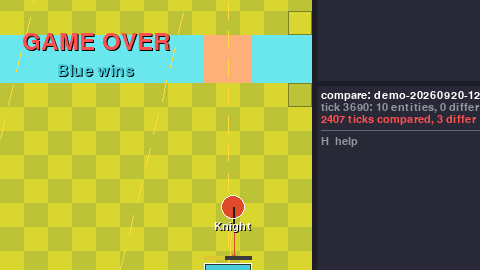
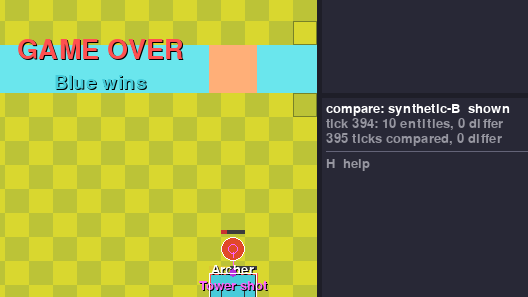
Two README tiles are made from the battle that ships with the tests
tile-compare.png and tile-paths-and-targets.png were hand-taken screenshots of
a real match. They were the only pictures here nobody else could reproduce, and
the compare tile printed a recording's name and its numbers on its own face,
while the media README two folders down said nothing here comes from a real
match. One of the two was wrong and it was the pictures.

docs/media/make_tiles.py crops them out of the real window drawn on
tests/fixtures, off-display, so the same tick gives the same bytes. The numbers
on the new compare tile are the scripted battle's: 395 ticks compared, 0 differ,
which is what two recordings of one battle should say. The captions in README.md
quote the old numbers and belong to another session, which has the new ones.

The media README now names, for every picture in the repo, which battle it was
drawn from: an engine trace, a running environment, or the scripted battle. The
rest of the screenshots stay hand-taken; what makes a picture publishable is
where its battle came from, not whether a script pressed the button.

docs/viewer-stream.png is removed: nothing in any of the five repos referenced
it, the same reason 21 placeholder SVGs went in fc1f778.

diff --git a/docs/media/make_tiles.py b/docs/media/make_tiles.py
@@ -1,0 +1,116 @@
+#!/usr/bin/env python3
+"""The README's `tile-*.png` crops, from the recordings that ship with the tests.
+
+    ..\\..\\..\\.venv\\Scripts\\python docs\\media\\make_tiles.py            # every tile
+    ..\\..\\..\\.venv\\Scripts\\python docs\\media\\make_tiles.py compare    # one of them
+
+Every tile here is a crop of the real window drawn on `tests/fixtures`, the scripted battle
+as the two seats would have recorded it. No screen and no clock are involved: the window is
+rendered off-display and the same source and tick give the same bytes, so a regenerated tile
+is a clean diff or no diff at all.
+
+That is the point of the file. These two tiles were hand-taken screenshots of a real match,
+which made them the only pictures in the repo that nobody else could reproduce and that no
+change to the viewer would ever update. A picture of a window is worth keeping only while it
+still shows what the window does.
+
+A tile is a CROP because the window is 1082 x 1029 and a README thumbnail of the whole thing
+shows nothing. The crops are named regions rather than magic numbers: see `TILES`.
+"""
+
+from __future__ import annotations
+
+import os
+import sys
+from pathlib import Path
+
+os.environ.setdefault("SDL_VIDEODRIVER", "dummy")
+os.environ.setdefault("SDL_AUDIODRIVER", "dummy")
+
+HERE = Path(__file__).resolve().parent
+REPO = HERE.parents[1]
+sys.path.insert(0, str(REPO))
+sys.path.insert(0, str(REPO / "tests"))
+
+import pygame  # noqa: E402
+
+from royaleviser.app import KEYS, App  # noqa: E402
+from royaleviser.render import ViewState  # noqa: E402
+from royaleviser.sources import CaptureSource  # noqa: E402
+
+SCALE = 24
+
+
+def fixtures() -> tuple[Path, Path]:
+    import synthetic  # the generator that also writes them; tests check the two agree
+
+    return synthetic.fixture_paths()
+
+
+def window(
+    main: Path, other: Path | None, tick: int, *, scrub: bool = False, **view_kw
+) -> pygame.Surface:
+    """The whole window, drawn on ``main`` (and ``other`` ghosted) at ``tick``.
+
+    ``scrub`` plays every frame up to ``tick`` first, which is what a person watching does and
+    the only way the compare totals are the battle's rather than one frame's.
+    """
+    pygame.init()
+    srcs = [CaptureSource(main)]
+    if other is not None:
+        srcs.append(CaptureSource(other))
+    app = App(srcs, ViewState(**view_kw), scale=SCALE)
+    app.renderer.help_lines = KEYS
+    end = srcs[0].index_at_tick(tick)
+    for i in range(end + 1) if scrub else (end,):
+        srcs[0].seek(i)
+        app.pull()
+    app.draw(0.0)
+    for s in srcs:
+        s.close()
+    return app.renderer.surface.copy()
+
+
+def crop(surface: pygame.Surface, rect: tuple[int, int, int, int], to: Path) -> None:
+    out = pygame.Surface((rect[2], rect[3]))
+    out.blit(surface, (0, 0), rect)
+    pygame.image.save(out, str(to))
+    print(f"{to.name}: {rect[2]}x{rect[3]} from {rect[:2]}")
+
+
+def compare() -> None:
+    """The compare panel at the end of the battle, with the two recordings' agreement on it.
+
+    Both fixtures are the same scripted battle recorded from the two seats, so the honest
+    number for them is zero: what the panel is showing is that it CAN say so tick by tick.
+    """
+    a, b = fixtures()
+    import synthetic
+
+    surf = window(a, b, synthetic.LAST_TICK, scrub=True)
+    crop(surf, (460, 320, 528, 297), HERE / "tile-compare.png")
+
+
+def paths_and_targets() -> None:
+    """Units with the route they walk and the thing they attack, both drawn."""
+    a, _ = fixtures()
+    surf = window(a, None, 162, show_paths=True, show_targets=True)
+    crop(surf, (345, 225, 432, 243), HERE / "tile-paths-and-targets.png")
+
+
+TILES = {"compare": compare, "paths-and-targets": paths_and_targets}
+
+
+def main(argv: list[str]) -> int:
+    names = argv or list(TILES)
+    unknown = [n for n in names if n not in TILES]
+    if unknown:
+        print(f"unknown tile(s): {', '.join(unknown)}; have {', '.join(TILES)}", file=sys.stderr)
+        return 2
+    for name in names:
+        TILES[name]()
+    return 0
+
+
+if __name__ == "__main__":
+    sys.exit(main(sys.argv[1:]))

diff --git a/docs/media/README.md b/docs/media/README.md
@@ -1,7 +1,7 @@
 # README media
 
 Every file the README embeds. Most of it is generated by a script and needs no screen, which
-is the part worth knowing. The exceptions are in the table: the `tile-*.png` screenshots and
+is the part worth knowing. The exceptions are in the table: four `tile-*.png` screenshots and
 the hand-drawn `family.svg` are final and are not regenerated here.
 
 The generator is [`../../../RoyaleGym/docs/media/make_media.py`](../../../RoyaleGym/docs/media/make_media.py).
@@ -10,6 +10,13 @@ From the folder that holds them:
 
 ```
 .venv\Scripts\python RoyaleGym\docs\media\make_media.py engine-trace compare-ghost
+```
+
+The `tile-compare` and `tile-paths-and-targets` crops have a generator of their own here,
+because they are crops of this viewer's window on the recordings that ship with the tests:
+
+```
+.venv\Scripts\python RoyaleViser\docs\media\make_tiles.py
 ```
 
 Underneath it is this repo's own `capture()`, which writes the window to a png, mp4 or gif
@@ -22,7 +29,11 @@ so regenerating is a clean diff. See `docs/internals.md` for the function.
 | `compare-ghost.gif` / `.mp4` | `make_media.py compare-ghost` | The two recordings of the scripted battle, the second drawn on the first as hollow ghosts. |
 | `replay-scrubbed-4x.gif` / `.mp4` | `make_media.py replay-scrubbed` | The scripted battle that ships with the tests, played back. |
 | `live-training-env.png` | `make_media.py live-training-env` | A real environment in another process, streaming over UDP to the viewer. |
-| `tile-*.png` | screenshots | final, not regenerated here |
+| `tile-compare.png` | `make_tiles.py compare` | The compare panel at the end of the scripted battle, recorded from both seats: 395 ticks compared, 0 differ. |
+| `tile-paths-and-targets.png` | `make_tiles.py paths-and-targets` | A recorded unit's route and another's target line, at tick 162 of the scripted battle. |
+| `tile-event-log.png`, `tile-inspector.png` | screenshot of an engine trace | The event list, and every raw field of a pinned unit. |
+| `tile-live-stream.png` | screenshot of a running environment | The viewer attached over UDP while a training run plays. |
+| `tile-synthetic-battle.png` | screenshot of the scripted battle | The whole window, rendered with no display. |
 | `family.svg` | hand-drawn | the five repos and how they depend on each other; final |
 
 ## Two things the captions have to keep saying
@@ -56,8 +67,26 @@ effect was to break a caption that had been true.
 So before regenerating any picture, grep the README for the numbers written on it. If the prose
 quotes them, the regeneration is a prose job as well as a rendering one.
 
-## Nothing here comes from a recording of a real match
+## Where each picture's battle comes from
 
-Every source is either an engine trace or the scripted battle in `tests/fixtures`. That is a
-boundary rather than a limitation of the tooling: the recordings of real battles are private,
-so no public picture is made from one.
+Every picture in this repo is drawn from the engine, from a running environment, or from the
+scripted battle in `tests/fixtures`, which is committed. None is drawn from a recording of a
+real match: those recordings are private, so a picture made from one is a picture nobody else
+can make or check, and no caption here names one.
+
+| Picture | Its battle |
+|---|---|
+| `engine-trace.*`, `tile-event-log.png`, `tile-inspector.png`, `../viewer-trace.png` | an engine trace |
+| `live-training-env.png`, `tile-live-stream.png`, `../viewer-learning.png` | a running environment, streaming over UDP |
+| `replay-scrubbed-4x.*`, `compare-ghost.*`, `tile-compare.png`, `tile-paths-and-targets.png`, `tile-synthetic-battle.png` | the scripted battle in `tests/fixtures` |
+| `family.svg` | hand-drawn, no battle |
+
+Two of these were hand-taken screenshots of a REAL match until 2026-09-22: `tile-compare.png`
+and `tile-paths-and-targets.png`. They were the only pictures here nobody else could
+reproduce, and the compare tile printed a recording's name on its own face. Both are now
+crops of the window on the committed recordings, made by `make_tiles.py`.
+
+The rest of the screenshots are pictures of the window taken by hand on a public battle. A
+generated picture is better, because a hand-taken one never updates when the window changes
+and nobody can diff it -- but what makes a picture publishable is where its BATTLE came from,
+not whether a script pressed the button.
